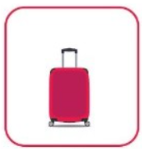
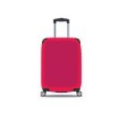
Bootrstrap en vez de material. update comp

Changed region(s): [[0.025, 0.025, 1.0, 1.0], [0.325, 0.125, 0.7, 0.875]]

diff --git a/src/app/check-maleta/check-maleta.component.html b/src/app/check-maleta/check-maleta.component.html
@@ -1,4 +1,56 @@
-<div *ngIf="!valijaIsSelected">
+<nav class="navbar navbar-light bg-light">
+  Registro de Maletas
+  <a class="navbar-brand" href="#">Cancelar</a>
+</nav>
+<div class="container">
+  <div class="row" *ngIf="!valijaIsSelected">
+    <div class="alert alert-warning" role="alert">
+      <h4 class="alert-heading">Pasajero: {{pasajeCliente?.nombre}}</h4>
+      <p>Vuelo: {{pasajeCliente?.vuelo}}</p>
+      <hr>
+      <p class="mb-0">Selecciona la Maleta a pesar y chequear:</p>
+    </div>
+
+    <div class="col-12">
+      <div class="row">
+        <div class="col-xs-12 col-lg-4" *ngFor="let maleta of pasajeCliente?.maletas; let i = index">
+          <div class="card mt-3 maletas" (click)="seleccionarValija(maleta.maleta_id)">
+            <img mat-card-image [src]="imageValija(maleta.peso.$numberDecimal)" alt="Imagen de Maleta">
+            <div class="card-body bg-success color-white">
+              <div class="row">
+                <div class="col-12">
+                  <h1 class="h3 mb-3 font-weight-normal">Baggage {{i}} </h1>
+                </div>
+              </div>
+              <div class="row">
+                <div class="col-12">
+                  <p class="infoParaUsuario">
+                    Max: {{maleta.peso.$numberDecimal}} KG
+                  </p>
+                </div>
+              </div>
+            </div>
+          </div>
+        </div>
+        <div class="col-xs-12 col-lg-4">
+          <div class="card maletas" id="nuevaMaleta">
+            <img mat-card-image src="../../assets/images/plus.jpg" alt="Nueva Maleta">
+            <div class="card-body bg-danger">
+              <div class="row">
+                <div class="col-12">
+                  <h1 class="h3 mb-3 font-weight-normal">Comprar equipaje extra</h1>
+                </div>
+              </div>
+            </div>
+          </div>
+        </div>
+      </div>
+    </div>
+
+  </div>
+</div>
+
+<!-- <div *ngIf="!valijaIsSelected">
 
   <mat-grid-list class="titleSeleccion" cols="1" rowHeight="20:1">
     <mat-grid-tile>
@@ -28,9 +80,9 @@
       </mat-card>
     </mat-grid-tile>
   </mat-grid-list>
-</div>
+</div> -->
 
-<div *ngIf="valijaIsSelected">
+<!-- <div *ngIf="valijaIsSelected">
 
   <mat-grid-list class="titleSeleccion" cols="1" rowHeight="20:1">
     <mat-grid-tile>
@@ -60,4 +112,4 @@
       </mat-card>
     </mat-grid-tile>
   </mat-grid-list>
-</div>
+</div> -->

diff --git a/src/app/inicio/inicio.component.html b/src/app/inicio/inicio.component.html
@@ -1,26 +1,23 @@
-<mat-grid-list cols="1" rowHeight="2:1">
-  <mat-grid-tile>
-    <mat-card class="example-card">
-      <mat-card-header>
-        <div mat-card-avatar class="example-header-image"></div>
-        <mat-card-title>Bienvenido</mat-card-title>
-        <mat-card-subtitle>Sistema de chequeo express de maletas</mat-card-subtitle>
-      </mat-card-header>
-      <img mat-card-image src="../../assets/images/boardingpass.webp" alt="Photo of a Shiba Inu">
-      <mat-card-content>
+<div class="container">
+  <div class="card mt-5" id="card-boarding">
+    <h1 class="h3 mb-3 font-weight-normal">Sistema de chequeo express de maletas</h1>
+    <img mat-card-image src="../../assets/images/boardingpass.webp" alt="Escanea el boarding pass">
+    <div class="card-body">
+      <div class="row">
         <p class="infoParaUsuario">
-         Acerque el código de su BoardingPass al lector.
+          Acerque el código de su BoardingPass al lector.
         </p>
-      </mat-card-content>
-      <mat-card-actions>
-        <form class="example-form">
-          <mat-form-field class="example-full-width">
-            <mat-label>Código Boarding Pass</mat-label>
-            <input name="boarding-code" id="boarding-code" [(ngModel)]="boardingpass" type="text" matInput  placeholder="Ex. AAACCCDX1" />
-          </mat-form-field>
-        </form>
-        <button mat-raised-button color="primary" (click)="verificarPasaje()">ACEPTAR</button>
-      </mat-card-actions>
-    </mat-card>
-  </mat-grid-tile>
-</mat-grid-list>
+
+        <input name="boarding-code" id="boarding-code" class="form-control" [(ngModel)]="boardingpass" type="text"
+          matInput placeholder="Ex. AAACCCDX1" />
+
+      </div><br>
+      <div class="row">
+
+        <button class="btn btn-lg btn-dark btn-block" (click)="verificarPasaje()">ACEPTAR</button>
+
+      </div>
+      <p class="text-center">© 2023</p>
+    </div>
+  </div>
+</div>

diff --git a/src/app/app.module.ts b/src/app/app.module.ts
@@ -5,14 +5,14 @@ import { AppRoutingModule } from './app-routing.module';
 import { AppComponent } from './app.component';
 import { BrowserAnimationsModule } from '@angular/platform-browser/animations';
 import { InicioComponent } from './inicio/inicio.component';
-import { MatButtonModule } from '@angular/material/button';
-import { MatCardModule } from '@angular/material/card';
-import { MatGridListModule } from '@angular/material/grid-list';
+// import { MatButtonModule } from '@angular/material/button';
+// import { MatCardModule } from '@angular/material/card';
+// import { MatGridListModule } from '@angular/material/grid-list';
 import { FormsModule, ReactiveFormsModule } from '@angular/forms';
-import { MatInputModule } from '@angular/material/input';
-import { MatFormFieldModule } from '@angular/material/form-field';
-import { MatIconModule } from '@angular/material/icon';
-import { MatDividerModule } from '@angular/material/divider';
+// import { MatInputModule } from '@angular/material/input';
+// import { MatFormFieldModule } from '@angular/material/form-field';
+// import { MatIconModule } from '@angular/material/icon';
+// import { MatDividerModule } from '@angular/material/divider';
 import { CheckMaletaComponent } from './check-maleta/check-maleta.component';
 import { HttpClientModule } from '@angular/common/http';
 
@@ -26,13 +26,8 @@ import { HttpClientModule } from '@angular/common/http';
     BrowserModule,
     AppRoutingModule,
     BrowserAnimationsModule,
-    MatCardModule, MatButtonModule, MatGridListModule,
     FormsModule,
     ReactiveFormsModule,
-    MatFormFieldModule,
-    MatInputModule,
-    MatDividerModule,
-    MatIconModule,
     HttpClientModule
   ],
   providers: [],

diff --git a/src/app/app.component.html b/src/app/app.component.html
@@ -14,5 +14,5 @@
 <svg id="clouds" xmlns="http://www.w3.org/2000/svg" width="2611.084" height="485.677" viewBox="0 0 2611.084 485.677">
   <path id="Path_39" data-name="Path 39"
     d="M2379.709,863.793c10-93-77-171-168-149-52-114-225-105-264,15-75,3-140,59-152,133-30,2.83-66.725,9.829-93.5,26.25-26.771-16.421-63.5-23.42-93.5-26.25-12-74-77-130-152-133-39-120-212-129-264-15-54.084-13.075-106.753,9.173-138.488,48.9-31.734-39.726-84.4-61.974-138.487-48.9-52-114-225-105-264,15a162.027,162.027,0,0,0-103.147,43.044c-30.633-45.365-87.1-72.091-145.206-58.044-52-114-225-105-264,15-75,3-140,59-152,133-53,5-127,23-130,83-2,42,35,72,70,86,49,20,106,18,157,5a165.625,165.625,0,0,0,120,0c47,94,178,113,251,33,61.112,8.015,113.854-5.72,150.492-29.764a165.62,165.62,0,0,0,110.861-3.236c47,94,178,113,251,33,31.385,4.116,60.563,2.495,86.487-3.311,25.924,5.806,55.1,7.427,86.488,3.311,73,80,204,61,251-33a165.625,165.625,0,0,0,120,0c51,13,108,15,157-5a147.188,147.188,0,0,0,33.5-18.694,147.217,147.217,0,0,0,33.5,18.694c49,20,106,18,157,5a165.625,165.625,0,0,0,120,0c47,94,178,113,251,33C2446.709,1093.793,2554.709,922.793,2379.709,863.793Z"
-    transform="translate(142.69 -634.312)" fill="#eee" />
+    transform="translate(142.69 -634.312)" fill="#19647E" />
 </svg>

diff --git a/src/app/check-maleta/check-maleta.component.scss b/src/app/check-maleta/check-maleta.component.scss
@@ -1,37 +1,33 @@
-.example-card {
-  max-width: 400px;
-}
-
-.example-header-image {
-  background-image: url("https://material.angular.io/assets/img/examples/shiba1.jpg");
-  background-size: cover;
-}
-.example-form {
-  min-width: 150px;
-  max-width: 500px;
+.alert {
   width: 100%;
+  margin-top: 20px;
 }
 
-.example-full-width {
-  width: 100%;
-}
-
-.infoParaUsuario {
-  font-size: large;
-}
-
-button {
-  float: right;
-}
-
-.titleSeleccion {
-  background: #424242;
-  color: #fff;
+.card {
+  -webkit-box-shadow: 13px 13px 25px 0px rgba(0, 0, 0, 0.8);
+  -moz-box-shadow: 13px 13px 25px 0px rgba(0, 0, 0, 0.8);
+  box-shadow: 13px 13px 25px 0px rgba(0, 0, 0, 0.8);
+  min-height: 220px;
+  border: none;
+  img {
+    height: 150px;
+    width: fit-content;
+    margin: auto;
+  }
+  .card-body {
+    border-radius: 0 0 0.15rem 0.15rem;
+  }
 }
 
 .maletas:hover {
   cursor: pointer;
-  mat-card {
-    border: 2px solid #424242;
-  }
+  border: 2px solid #424242;
+}
+
+#nuevaMaleta {
+  margin-top: 10%;
+}
+
+.color-white {
+  color: white;
 }

diff --git a/src/styles.scss b/src/styles.scss
@@ -1,4 +1,56 @@
 /* You can add global styles to this file, and also import other style files */
 
-html, body { height: 100%; }
-body { margin: 0; font-family: Roboto, "Helvetica Neue", sans-serif; }
+html,
+body {
+  height: 100%;
+}
+body {
+  margin: 0;
+  font-family: Roboto, "Helvetica Neue", sans-serif;
+}
+
+.btn-dark,
+.dark,
+.bg-dark {
+  background-color: #1f271b !important;
+}
+
+.btn-primary,
+.primary,
+.bg-primary {
+  background-color: #19647e !important;
+}
+
+.btn-success,
+.success,
+.bg-success {
+  background-color: #28afb0 !important;
+}
+
+.btn-warning,
+.warning,
+.bg-warning {
+  background-color: #f4d35e !important;
+}
+
+.alert-warning {
+  background-color: #f4d35e !important;
+  border-color: #f2cb40 !important;
+  color: #19647e !important;
+
+  hr {
+    border-top-color: #f2cb40 !important;
+  }
+}
+
+.btn-danger,
+.danger,
+.bg-danger {
+  background-color: #ee964b !important;
+}
+
+.btn-info,
+.info,
+.bg-light {
+  background-color: #f7e08d !important;
+}

diff --git a/src/index.html b/src/index.html
@@ -9,6 +9,9 @@
   <link rel="preconnect" href="https://fonts.gstatic.com">
   <link href="https://fonts.googleapis.com/css2?family=Roboto:wght@300;400;500&display=swap" rel="stylesheet">
   <link href="https://fonts.googleapis.com/icon?family=Material+Icons" rel="stylesheet">
+  <link rel="stylesheet" href="https://cdn.jsdelivr.net/npm/bootstrap@4.6.2/dist/css/bootstrap.min.css" integrity="sha384-xOolHFLEh07PJGoPkLv1IbcEPTNtaed2xpHsD9ESMhqIYd0nLMwNLD69Npy4HI+N" crossorigin="anonymous">
+  <script src="https://cdn.jsdelivr.net/npm/jquery@3.5.1/dist/jquery.slim.min.js" integrity="sha384-DfXdz2htPH0lsSSs5nCTpuj/zy4C+OGpamoFVy38MVBnE+IbbVYUew+OrCXaRkfj" crossorigin="anonymous"></script>
+<script src="https://cdn.jsdelivr.net/npm/bootstrap@4.6.2/dist/js/bootstrap.bundle.min.js" integrity="sha384-Fy6S3B9q64WdZWQUiU+q4/2Lc9npb8tCaSX9FK7E8HnRr0Jz8D6OP9dO5Vg3Q9ct" crossorigin="anonymous"></script>
 </head>
 <body class="mat-typography">
   <app-root></app-root>

diff --git a/src/app/inicio/inicio.component.scss b/src/app/inicio/inicio.component.scss
@@ -1,25 +1,14 @@
-.example-card {
-  max-width: 400px;
+.infoParaUsuario {
+  font-size: large;
 }
 
-.example-header-image {
-  background-image: url("https://material.angular.io/assets/img/examples/shiba1.jpg");
-  background-size: cover;
-}
-.example-form {
-  min-width: 150px;
-  max-width: 500px;
+#card-boarding {
   width: 100%;
+  max-width: 600px;
+  padding: 15px;
+  margin: auto;
+  -webkit-box-shadow: 13px 13px 25px 0px rgba(0,0,0,0.8);
+-moz-box-shadow: 13px 13px 25px 0px rgba(0,0,0,0.8);
+box-shadow: 13px 13px 25px 0px rgba(0,0,0,0.8);
 }
 
-.example-full-width {
-  width: 100%;
-}
-
-.infoParaUsuario{
-font-size: large;
-}
-
-button {
-  float: right;
-}

diff --git a/src/app/check-maleta/check-maleta.component.ts b/src/app/check-maleta/check-maleta.component.ts
@@ -63,7 +63,7 @@ export class CheckMaletaComponent implements OnInit {
   }
 
   seleccionarValija(valijaId: string) {
-    this.valijaSeleccionada = this.pasajeCliente?.valijas.find(v => v.maleta_id == valijaId);
+    this.valijaSeleccionada = this.pasajeCliente?.maletas.find(v => v.maleta_id == valijaId);
     this.valijaIsSelected = true;
 
     setTimeout(() => {

diff --git a/src/app/interfaces/interfaces.ts b/src/app/interfaces/interfaces.ts
@@ -10,5 +10,5 @@ export interface Pasaje {
   _id: string;
   nombre: string;
   vuelo: string;
-  valijas: Valija[]
+  maletas: Valija[]
 }
